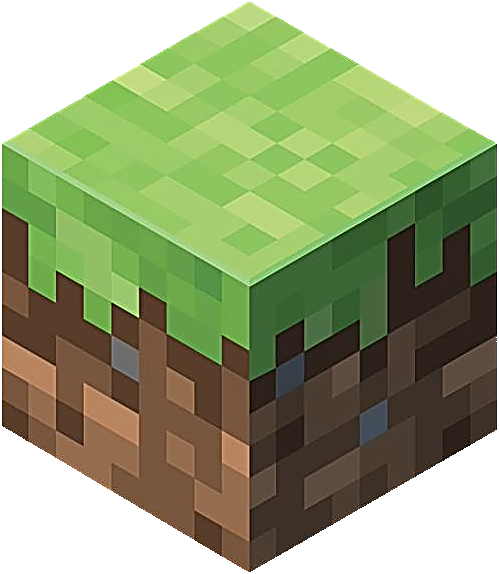
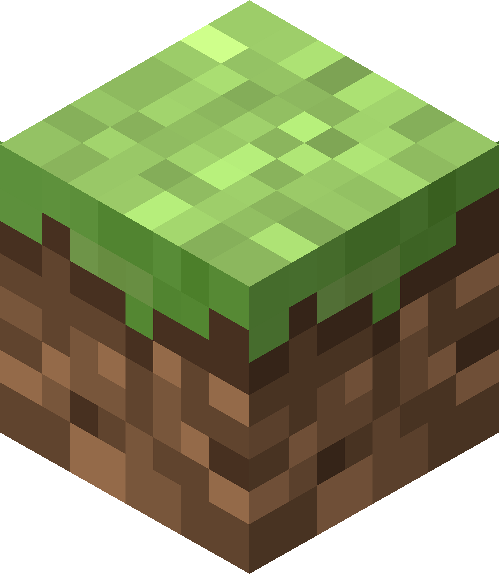
Added media #17

diff --git a/docs/media/Isometric Projection/isometric_block_generator.py b/docs/media/Isometric Projection/isometric_block_generator.py
@@ -1,0 +1,95 @@
+import argparse
+from PIL import Image, ImageDraw, ImageEnhance
+
+def pad_image(img):
+    """Pads the image by 1 pixel repeating the edges, used to eliminate anti-aliasing seams."""
+    w, h = img.size
+    pad = 1
+    new_img = Image.new(img.mode, (w + 2*pad, h + 2*pad))
+    new_img.paste(img, (pad, pad))
+    new_img.paste(img.crop((0, 0, w, 1)), (pad, 0))
+    new_img.paste(img.crop((0, h-1, w, h)), (pad, h+pad))
+    new_img.paste(img.crop((0, 0, 1, h)), (0, pad))
+    new_img.paste(img.crop((w-1, 0, w, h)), (w+pad, pad))
+    new_img.paste(img.crop((0, 0, 1, 1)), (0, 0))
+    new_img.paste(img.crop((w-1, 0, w, 1)), (w+pad, 0))
+    new_img.paste(img.crop((0, h-1, 1, h)), (0, h+pad))
+    new_img.paste(img.crop((w-1, h-1, w, h)), (w+pad, h+pad))
+    return new_img
+
+def create_block(top_tex_path, side_tex_path, bottom_tex_path, out_path):
+    # Exact dimensions from a true 30-degree orthographic projection isometric block
+    Xc = 249
+    Yc = 284
+    Wx = 247
+    Wy = 141
+    Hside = 287
+
+    # Load and pad textures to prevent seams, then scale up heavily to preserve crisp pixel look
+    S = 1024
+    scale_factor = S // 16
+    pad_px = 1 * scale_factor
+
+    top_tex_raw = Image.open(top_tex_path).convert("RGBA")
+    side_tex_raw = Image.open(side_tex_path).convert("RGBA")
+
+    top_tex = pad_image(top_tex_raw).resize((S + 2*pad_px, S + 2*pad_px), Image.NEAREST)
+    side_tex = pad_image(side_tex_raw).resize((S + 2*pad_px, S + 2*pad_px), Image.NEAREST)
+
+    out_w, out_h = 499, 574
+    out_img = Image.new("RGBA", (out_w, out_h), (0,0,0,0))
+
+    def get_face(tex, a, b, c, d, e, f, polygon, brightness):
+        # Shift mapping by pad_px because texture origin moved due to padding
+        c_new = c - a*Xc - b*Yc + pad_px
+        f_new = f - d*Xc - e*Yc + pad_px
+        
+        face = tex.transform((out_w, out_h), Image.AFFINE, (a, b, c_new, d, e, f_new), resample=Image.BICUBIC)
+        
+        if brightness < 1.0:
+            enhancer = ImageEnhance.Brightness(face)
+            face = enhancer.enhance(brightness)
+            
+        mask = Image.new("L", (out_w, out_h), 0)
+        draw = ImageDraw.Draw(mask)
+        poly_abs = [(x + Xc, y + Yc) for x, y in polygon]
+        draw.polygon(poly_abs, fill=255)
+        
+        face.putalpha(mask)
+        return face
+
+    # Right Face
+    a = S / Wx; b = 0; c_val = 0
+    d = (Wy * S) / (Wx * Hside); e = S / Hside; f_val = 0
+    poly_right_mask = [(0, 0), (Wx+2, -Wy-2), (Wx+2, -Wy + Hside + 2), (0, Hside+2)]
+    right_face = get_face(side_tex, a, b, c_val, d, e, f_val, poly_right_mask, 0.6)
+
+    # Left Face
+    a = S / Wx; b = 0; c_val = S
+    d = -(Wy * S) / (Wx * Hside); e = S / Hside; f_val = 0
+    poly_left_mask = [(0, 0), (-Wx-2, -Wy-2), (-Wx-2, -Wy + Hside + 2), (0, Hside+2)]
+    left_face = get_face(side_tex, a, b, c_val, d, e, f_val, poly_left_mask, 0.8)
+
+    # Top Face
+    a = -S / (2 * Wx); b = S / (2 * Wy); c_val = S
+    d = S / (2 * Wx); e = S / (2 * Wy); f_val = S
+    poly_top_mask = [(0, 2), (Wx+2, -Wy+1), (0, -2*Wy-2), (-Wx-2, -Wy+1)]
+    top_face = get_face(top_tex, a, b, c_val, d, e, f_val, poly_top_mask, 1.0)
+
+    # Paste faces back to front
+    out_img.paste(left_face, (0, 0), left_face)
+    out_img.paste(right_face, (0, 0), right_face)
+    out_img.paste(top_face, (0, 0), top_face)
+
+    out_img.save(out_path)
+    print(f"Isometric block successfully generated: {out_path}")
+
+if __name__ == "__main__":
+    parser = argparse.ArgumentParser(description="Generate a high-res isometric block from 2D textures.")
+    parser.add_argument("--top", required=True, help="Path to top texture (e.g., grass_block_top.png)")
+    parser.add_argument("--side", required=True, help="Path to side texture (e.g., grass_block_side.png)")
+    parser.add_argument("--bottom", default="", help="Path to bottom texture (Optional, not currently visible in this projection)")
+    parser.add_argument("--out", required=True, help="Output path (e.g., GRASS_BLOCK.png)")
+    args = parser.parse_args()
+
+    create_block(args.top, args.side, args.bottom, args.out)

diff --git a/docs/media/Isometric Projection/texture_tinter.py b/docs/media/Isometric Projection/texture_tinter.py
@@ -1,0 +1,45 @@
+import argparse
+from PIL import Image
+
+def colorize(img_path, target_r, target_g, target_b, base_grey=144):
+    img = Image.open(img_path).convert("RGBA")
+    out = Image.new("RGBA", img.size)
+    pixels = img.load()
+    out_pixels = out.load()
+    
+    for y in range(img.height):
+        for x in range(img.width):
+            r, g, b, a = pixels[x, y]
+            if a > 0:
+                # Check if it's greyscale (like a grass overlay)
+                if abs(r-g) <= 15 and abs(g-b) <= 15:
+                    # Apply tint using Minecraft's multiply logic
+                    new_r = min(255, int(r * target_r / base_grey))
+                    new_g = min(255, int(g * target_g / base_grey))
+                    new_b = min(255, int(b * target_b / base_grey))
+                    out_pixels[x, y] = (new_r, new_g, new_b, a)
+                else:
+                    out_pixels[x, y] = (r, g, b, a)
+            else:
+                out_pixels[x, y] = (0, 0, 0, 0)
+    return out
+
+if __name__ == "__main__":
+    parser = argparse.ArgumentParser(description="Tint greyscale areas of a texture to a specific RGB biome color.")
+    parser.add_argument("--input", required=True, help="Input texture path")
+    parser.add_argument("--out", required=True, help="Output texture path")
+    parser.add_argument("--color", required=True, help="Target RGB color in hex (e.g., 99C867)")
+    args = parser.parse_args()
+
+    # Parse hex color
+    hex_color = args.color.lstrip('#')
+    if len(hex_color) != 6:
+        raise ValueError("Color must be a 6-character hex code, e.g., 99C867")
+    
+    target_r = int(hex_color[0:2], 16)
+    target_g = int(hex_color[2:4], 16)
+    target_b = int(hex_color[4:6], 16)
+
+    tinted = colorize(args.input, target_r, target_g, target_b)
+    tinted.save(args.out)
+    print(f"Tinted texture successfully saved to: {args.out}")

diff --git a/docs/media/Isometric Projection/ISOMETRIC_PROJECTION.md b/docs/media/Isometric Projection/ISOMETRIC_PROJECTION.md
@@ -1,0 +1,79 @@
+# Isometric Block Generation
+
+This directory contains the tools necessary to generate mathematically perfect, high-resolution 3D isometric representations of Minecraft blocks from flat 16x16 2D textures.
+
+## The Mathematics of the Render
+
+Most basic isometric renders use a **2:1 Dimetric Projection** (also known as pixel-art isometric) where lines rise by 1 pixel for every 2 pixels across. 
+
+However, this toolkit uses a **True 30-Degree Isometric Orthographic Projection**. This means:
+- The camera is angled down exactly ~35.264° and rotated 45°.
+- The top, left, and right faces of the block are identically proportioned parallelograms/rhombuses.
+- It produces a slightly "taller", more realistic 3D look that matches modern, high-quality Minecraft item renders (like the official `GRASS_BLOCK.png`).
+
+To eliminate transparent seams between the faces (a common artifact of affine anti-aliasing), the toolkit uses **Texture Clamping** (padding the 16x16 texture to 18x18 before projection) to ensure perfect, flawless intersections without black lines.
+
+---
+
+## Tool 1: `isometric_block_generator.py`
+
+This script takes the flat 2D textures for the top and sides of a block and projects them into a 500x574 isometric render. It automatically applies standard Minecraft lighting (Top=100%, Left=80%, Right=60%).
+
+### Usage
+
+Run the script from the command line, providing the input textures and the desired output path:
+
+```powershell
+python isometric_block_generator.py --top <top_texture> --side <side_texture> --out <output_file>
+```
+
+**Example (Generating a Sandstone Block):**
+```powershell
+python "docs/media/Isometric Projection/isometric_block_generator.py" `
+  --top docs/media/sandstone_top.png `
+  --side docs/media/sandstone.png `
+  --out docs/media/SANDSTONE_BLOCK.png
+```
+
+---
+
+## Tool 2: `texture_tinter.py`
+
+Some blocks in Minecraft (like Grass Blocks, Leaves, and Water) use a greyscale template texture that is dynamically tinted in-game based on the biome. This script allows you to mathematically apply a biome tint color to a greyscale texture before generating the block.
+
+It specifically targets pixels that are purely greyscale, leaving pre-colored pixels (like the dirt on the side of a grass block) completely untouched.
+
+### Usage
+
+```powershell
+python texture_tinter.py --input <input_texture> --out <output_texture> --color <HEX_COLOR>
+```
+
+**Example (Tinting a Grass Block Top to Lush Green):**
+```powershell
+python "docs/media/Isometric Projection/texture_tinter.py" `
+  --input docs/media/grass_block_top.png `
+  --out "docs/media/Isometric Projection/tinted_grass_top.png" `
+  --color 99C867
+```
+
+---
+
+## Full Workflow: Generating a Biome-Tinted Grass Block
+
+If you have a `grass_block_top.png` and `grass_block_side.png` and want to create a beautifully tinted isometric render:
+
+1. **Tint the Top Face:**
+   ```powershell
+   python texture_tinter.py --input grass_block_top.png --out tinted_top.png --color 99C867
+   ```
+
+2. **Tint the Side Overlay (Grass Fringe):**
+   ```powershell
+   python texture_tinter.py --input grass_block_side.png --out tinted_side.png --color 99C867
+   ```
+
+3. **Generate the Final Isometric Block:**
+   ```powershell
+   python isometric_block_generator.py --top tinted_top.png --side tinted_side.png --out MY_LUSH_GRASS_BLOCK.png
+   ```
